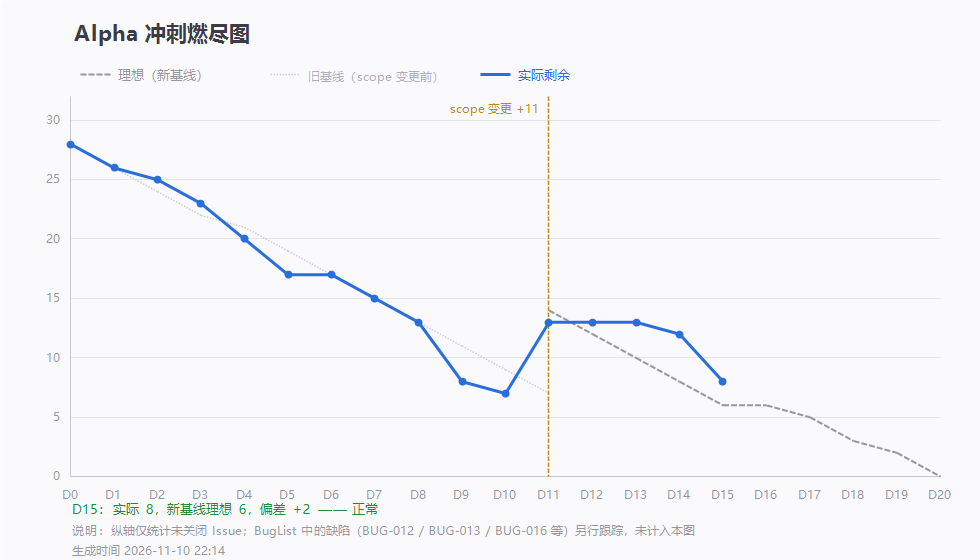
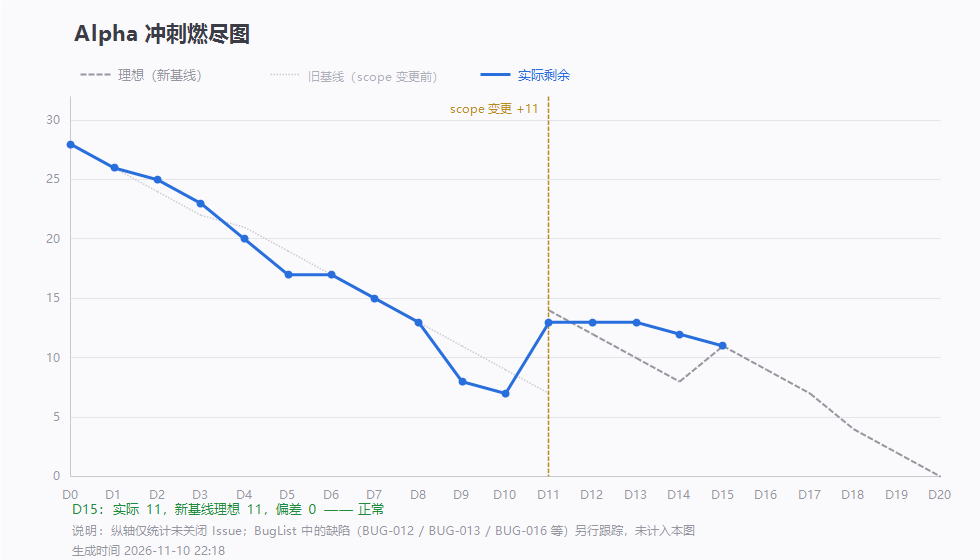
docs: 燃尽口径变更③——#44/#45/#46 重新计入，剩余 11 条，理想线重设至 D20 归零 (#3 #44 #45 #46)

diff --git a/docs/Alpha延展段-D12-D18计划.md b/docs/Alpha延展段-D12-D18计划.md
@@ -199,7 +199,10 @@ D11 晚我原本准备收 Alpha，老师给了明确反馈：
 > **画法说明（11-06 晚修正）**：燃尽图用**双基线**——旧理想线（点线）停在 D11，标出「scope 变更前原本的计划」；新理想线（虚线）从 D11=14 起算到 D18=0。这样两条线各自单调递减，不会出现「理想线先降后升」的假图。
 > 早期版本把 D11 理想写成旧基线的 7、D12 又跳到 12，导致理想线中途上翘——那是画错了，已修。
 >
-> **口径变更 ②（2026-11-10，D15，组长决定）**：`#44` 测试报告、`#45` 软工原理报告、`#46` 每周心得**不纳入本轮迭代的燃尽计数** —— 理由：这三条是文档交付，任务还没布置到具体某一天，按天烧不成立。**GitHub 上保持 open，照样要交**，只是不进这张图。
+> **口径变更 ③（2026-11-10 夜，组长决定，覆盖变更②）**：`#44` `#45` `#46` **重新计入**燃尽 —— 三条文档本周内都要做完，「下周交」只是提交动作。剩余数回到 **11 条**，基线 **37**，理想线自 D15 重设：11 → 9 → 7 → 4 → 2 → 0（D20）。
+>
+> ~~口径变更 ②（已作废）：三条不计入本轮计数。~~
+>> **口径变更 ②（2026-11-10，D15，组长决定）**：`#44` 测试报告、`#45` 软工原理报告、`#46` 每周心得**不纳入本轮迭代的燃尽计数** —— 理由：这三条是文档交付，任务还没布置到具体某一天，按天烧不成立。**GitHub 上保持 open，照样要交**，只是不进这张图。
 > 因此 D15 起剩余按 **34 条口径**统计（37 − 3）：D15 实际 9 条。理想线**不做重设**，沿用原基线（6 → 4 → 2 → 0），避免出现「理想线上翘」——这是 D11 已经踩过的坑。
 >
 > 口径说明：燃尽度量的是**未关闭 issue 数**。D11 从 5 条升到 14 条，是老师要求扩范围导致的 scope 变更，**不是退步**。
